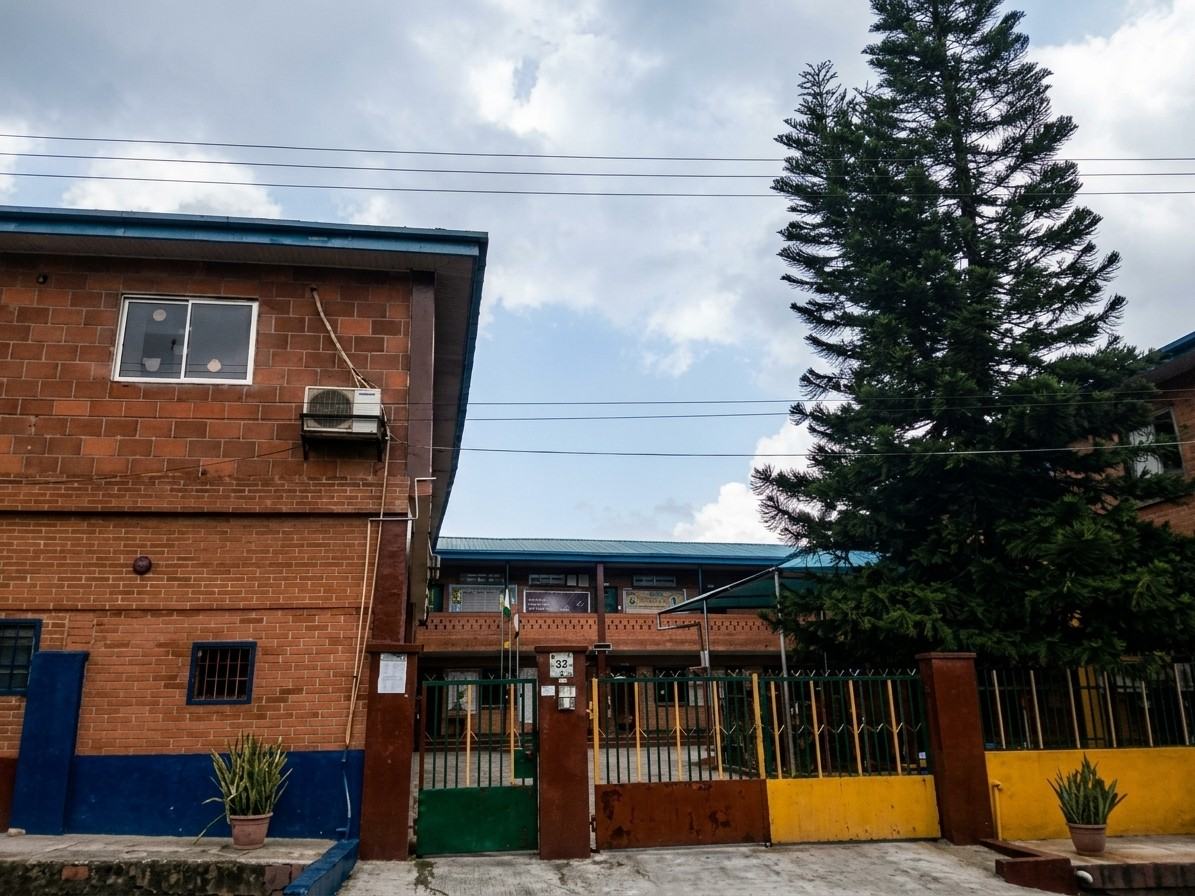
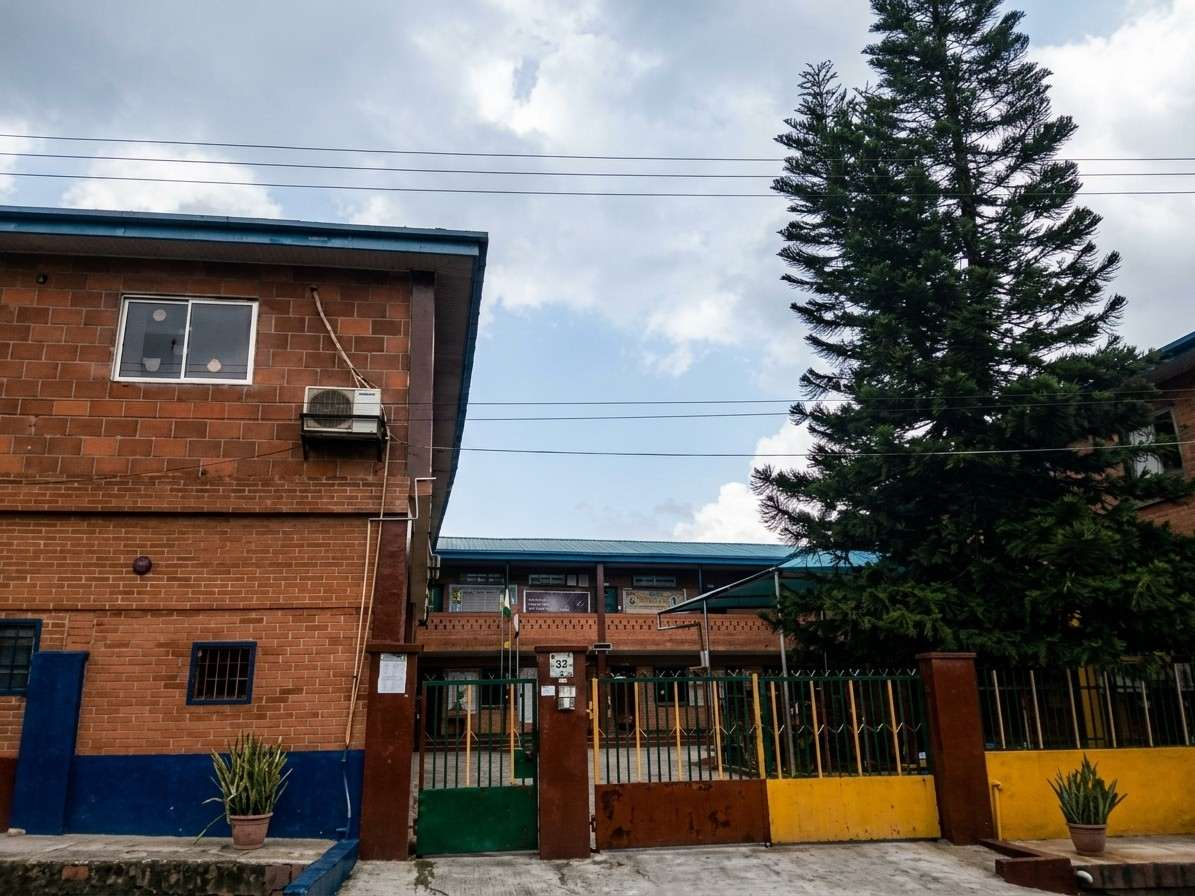
Sign-in background loads faster: smaller photo, preloaded, images cached a day

diff --git a/index.html b/index.html
@@ -4,6 +4,8 @@
 <meta charset="UTF-8">
 <meta name="viewport" content="width=device-width, initial-scale=1.0">
 <title>Unique Children's School — Sign In</title>
+<!-- start the background photo straight away, not after the style sheets load -->
+<link rel="preload" as="image" href="/report_assets/school-front.jpg?v=2" fetchpriority="high">
 <link rel="icon" type="image/png" href="/report_assets/favicon.png?v=2">
 <link href="https://fonts.googleapis.com/css2?family=DM+Sans:ital,opsz,wght@0,9..40,300;0,9..40,400;0,9..40,500;0,9..40,600;0,9..40,700&family=DM+Mono:wght@400;500&display=swap" rel="stylesheet">
 <link rel="stylesheet" href="/report_assets/fonts/dm-fonts.css">
@@ -47,7 +49,7 @@ body {
 /* the school's front gate behind the sign-in card, at 70% so it stays soft */
 body::before {
   content:''; position:fixed; inset:0; z-index:0;
-  background:url('/report_assets/school-front.jpg') center / cover no-repeat;
+  background:url('/report_assets/school-front.jpg?v=2') center / cover no-repeat;
   opacity:0.7;
   pointer-events:none;
 }

diff --git a/server.js b/server.js
@@ -8703,7 +8703,10 @@ function serveStatic(req, res, url) {
       '.svg': 'image/svg+xml',
       '.ttf': 'font/ttf',
     };
-    res.writeHead(200, { 'Content-Type': types[ext] || 'application/octet-stream' });
+    const headers = { 'Content-Type': types[ext] || 'application/octet-stream' };
+    // images rarely change: let the browser keep them for a day instead of fetching every visit
+    if (['.png', '.jpg', '.jpeg', '.svg', '.ico'].includes(ext)) headers['Cache-Control'] = 'public, max-age=86400';
+    res.writeHead(200, headers);
     res.end(data);
   });
 }
